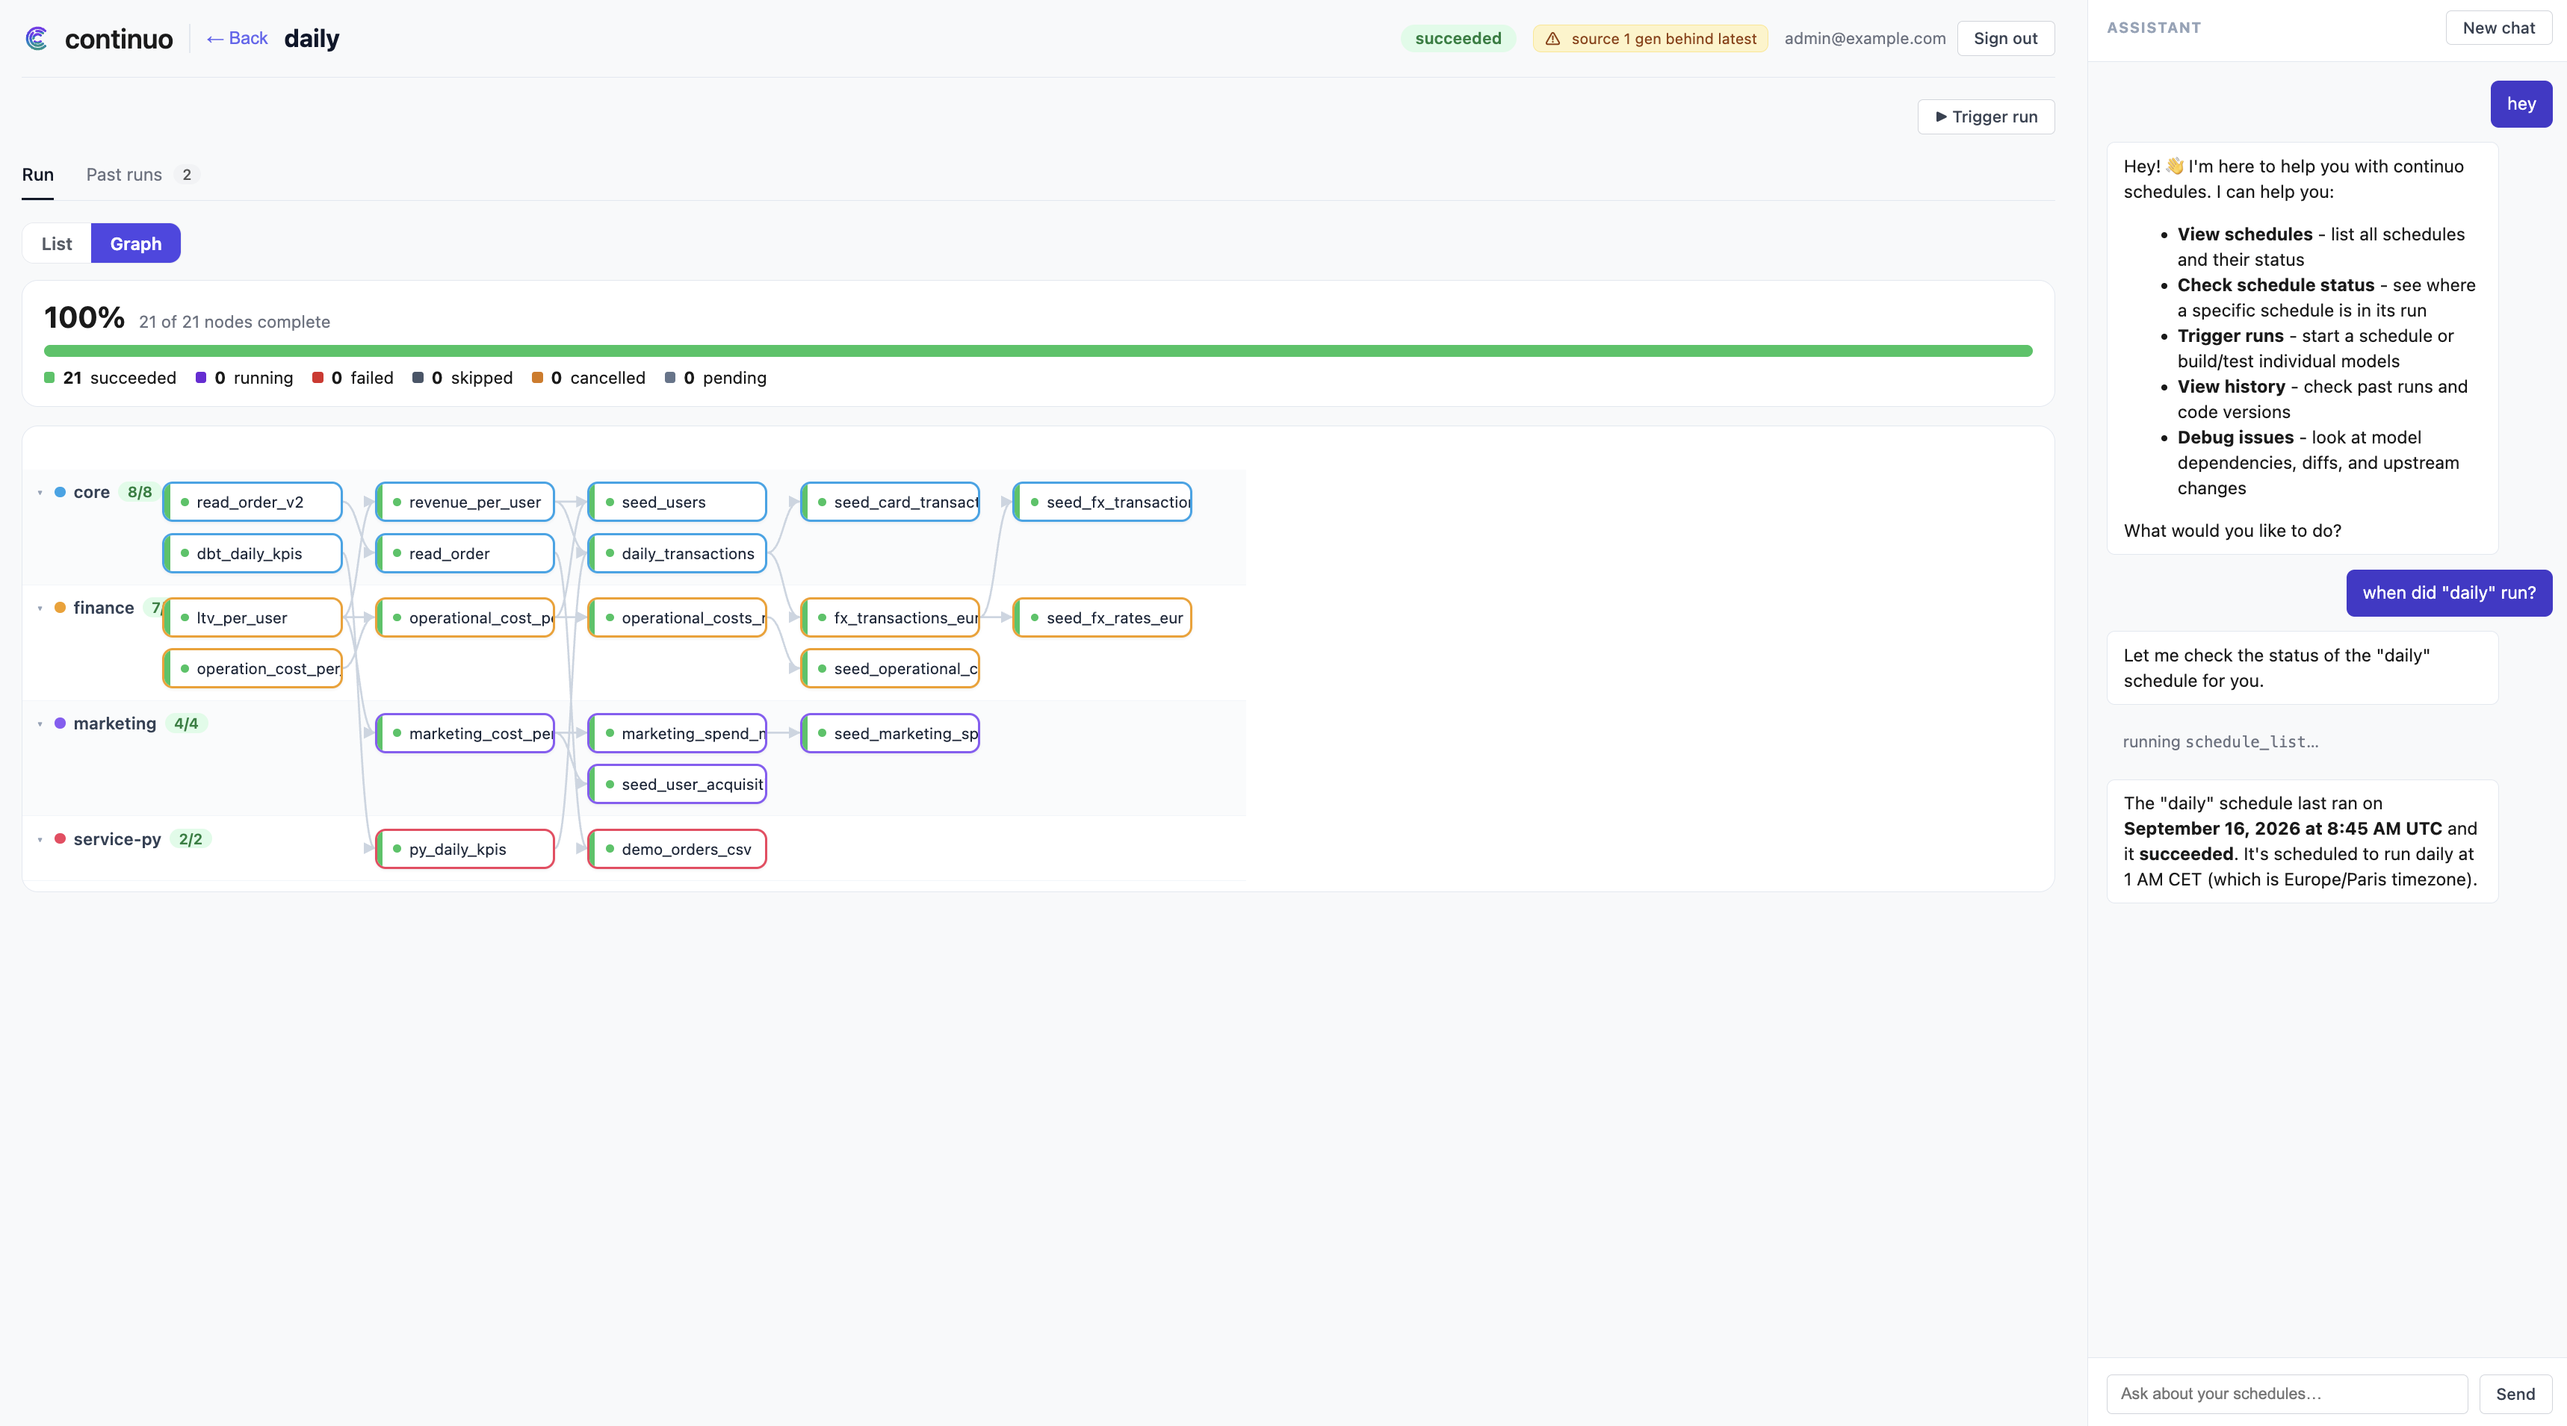
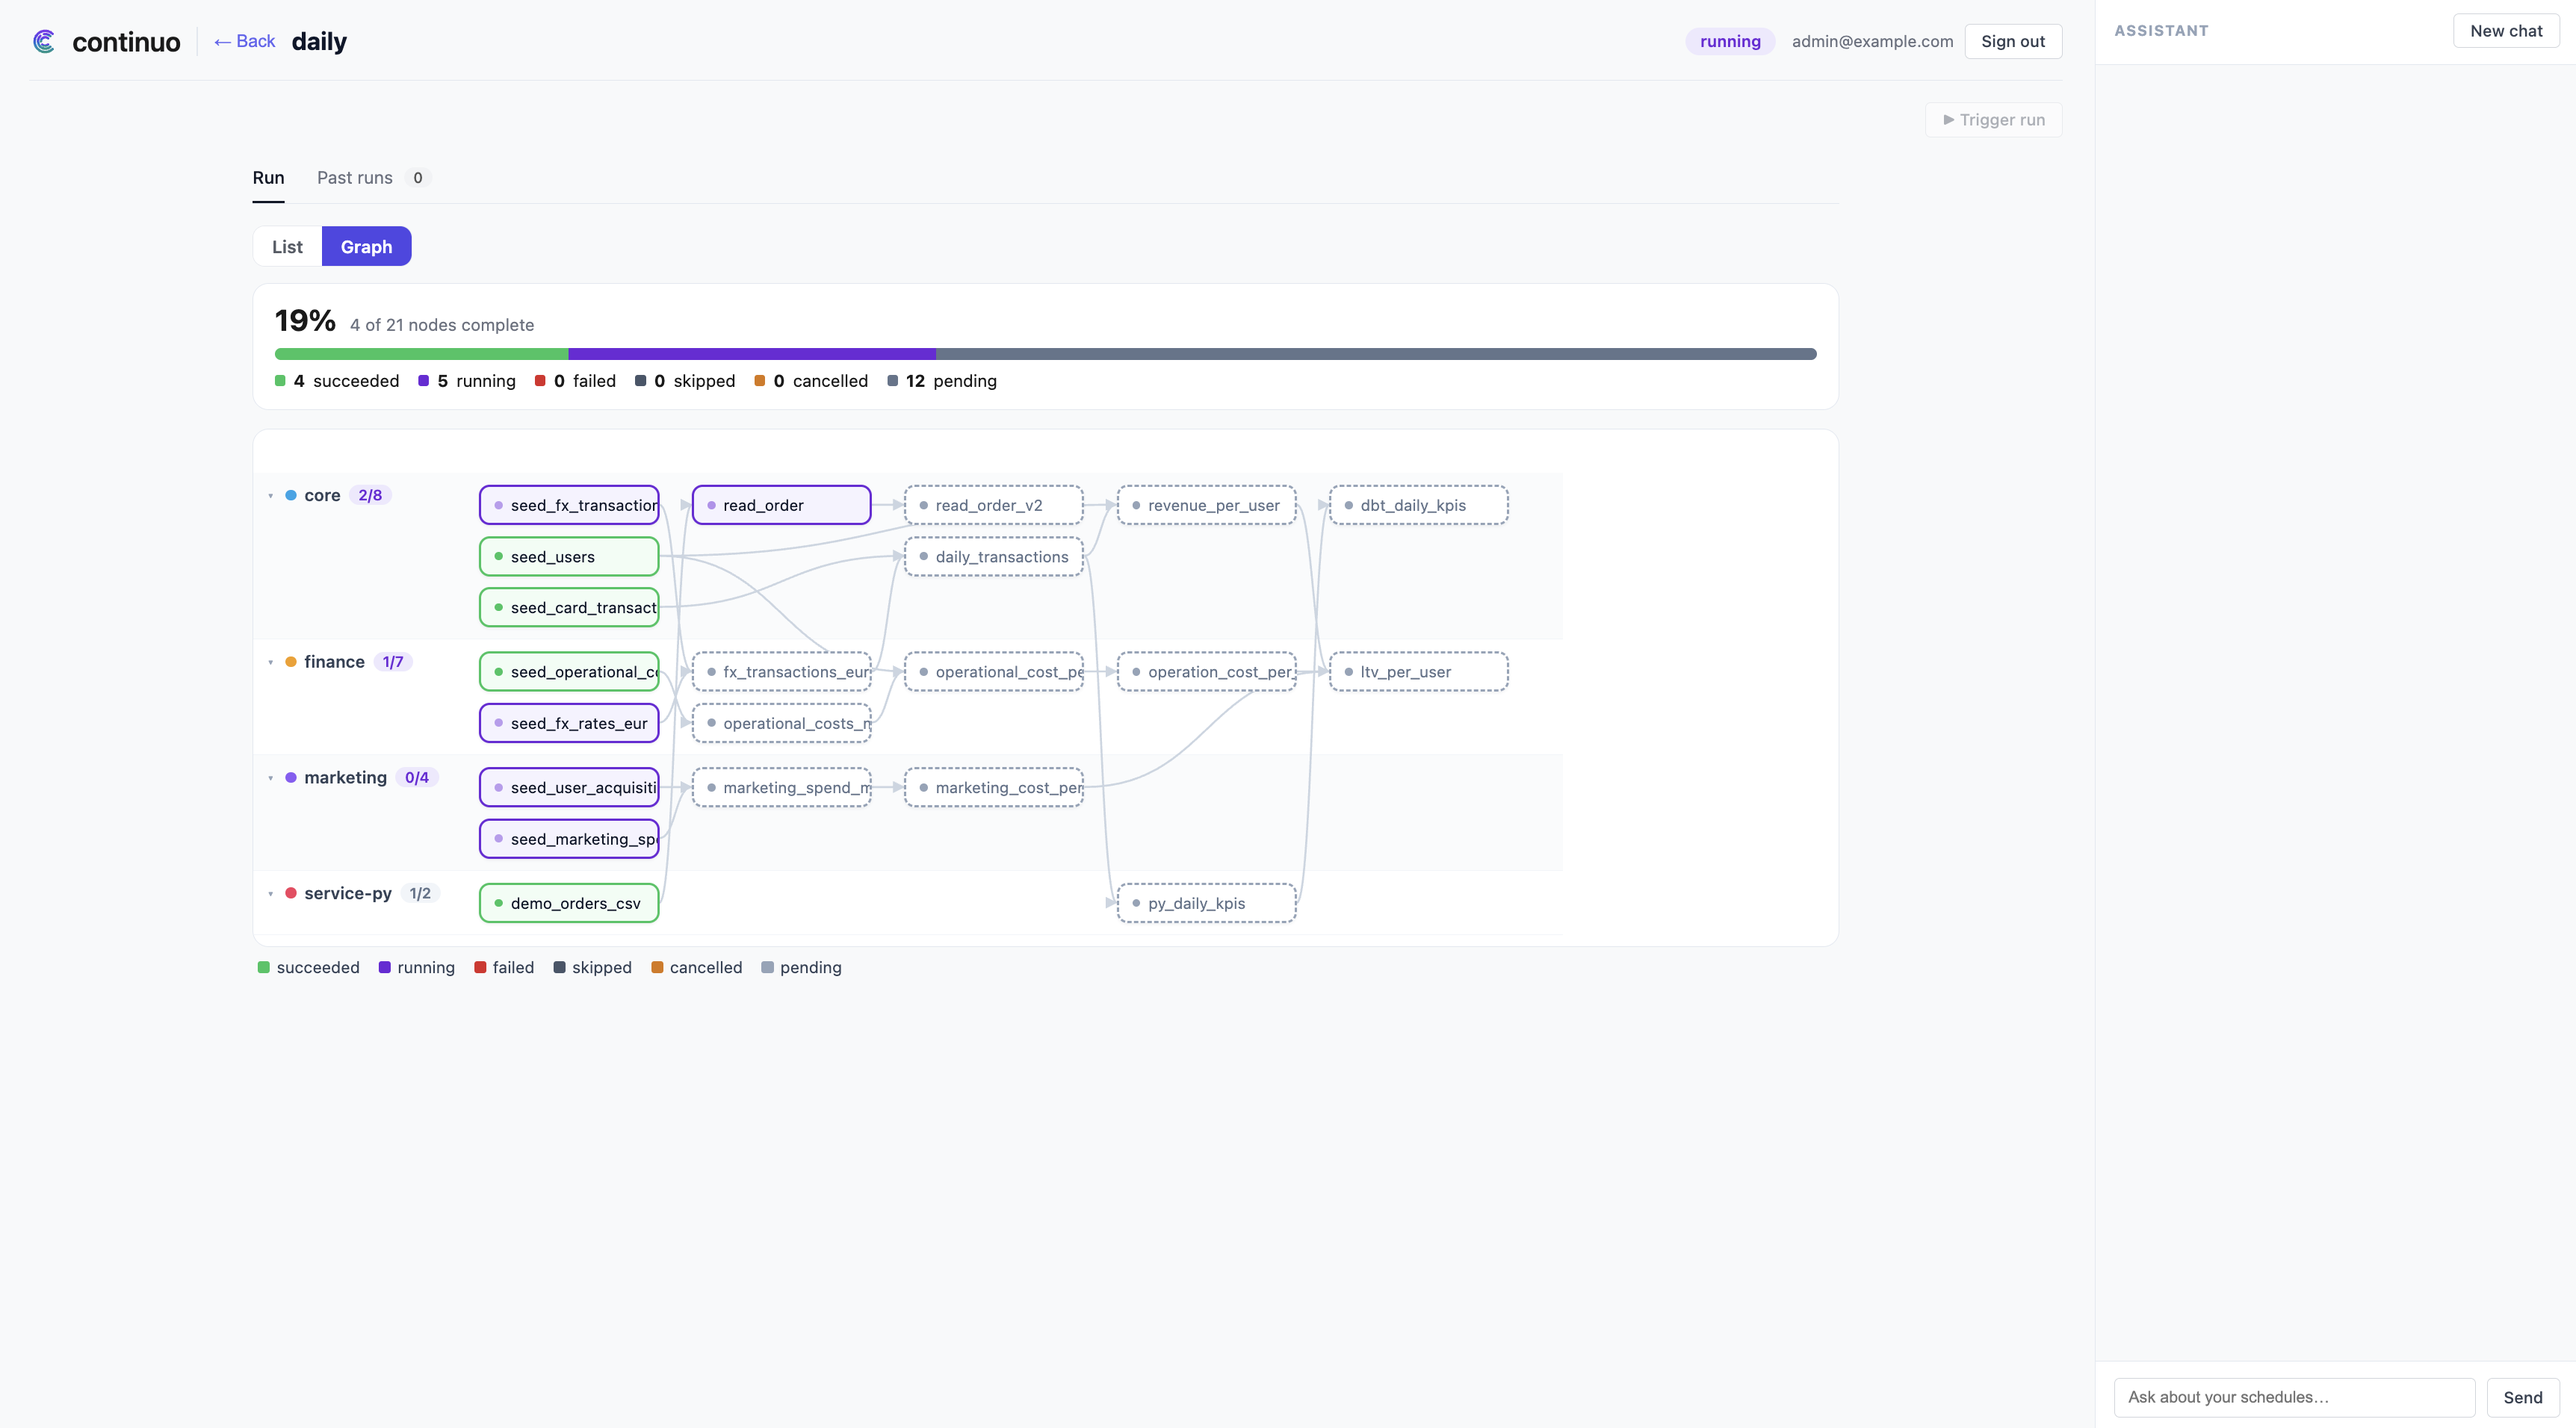
improve doc

diff --git a/docs/run-projects-in-continuo.md b/docs/run-projects-in-continuo.md
@@ -633,8 +633,7 @@ against it. Nobody declared those relationships anywhere.
 
 Only because all of that passed did `marketing:v2` become marketing's
 production image. In the UI, the graph now shows `channel_roi` downstream of
-finance's `ltv_per_user` — a node that exists but has never run, which chapter 9
-fixes.
+finance's `ltv_per_user` — a node that exists but has never run.
 
 ![The happy path: `rel-marketing-v2` walks compiling → parsing → validating → promoted, validation passing against production before promotion](img/happy-path-release.png)
 
@@ -764,7 +763,23 @@ to exist there. Commit and push your change to your fork, and use that commit:
 git add services/finance && git commit -m "break amount_eur" && git push
 ```
 
-Then set the LLM key and the read-only PAT, and upgrade:
+**Create the read-only PAT.** `github.token` is a GitHub fine-grained personal
+access token; `agent-remediation` uses it to read your fork's source over the
+GitHub API at `repo@commit_sha`. Create one once:
+
+1. **Open the token page.** GitHub → your avatar → **Settings → Developer
+   settings → Personal access tokens → Fine-grained tokens → Generate new
+   token**.
+2. **Name and scope it.** Give it any name, set an expiration, and under
+   **Repository access** choose **Only select repositories → your
+   `continuo-demo-docs` fork**.
+3. **Grant read-only contents.** Under **Repository permissions**, set
+   **Contents: Read-only**. Leave every other permission at **No access** —
+   that is all continuo needs.
+4. **Generate and copy it.** Click **Generate token** and copy the value; GitHub
+   shows it once. That string is your `github.token`.
+
+Then set the LLM key and this PAT, and upgrade:
 
 ```bash
 helm upgrade continuo oci://ghcr.io/carolsimone/charts/continuo \
@@ -774,8 +789,7 @@ helm upgrade continuo oci://ghcr.io/carolsimone/charts/continuo \
 ```
 
 `llm.provider` defaults to `anthropic` and `llm.model` to `claude-haiku-4-5`. For
-OpenAI, add `--set llm.provider=openai --set llm.model=<model>`. The PAT is a
-fine-grained token that needs only **read** access to your fork's contents.
+OpenAI, add `--set llm.provider=openai --set llm.model=<model>`.
 
 `--reuse-values` preserves anything you set at install; if you installed on pure
 defaults you can drop it.
